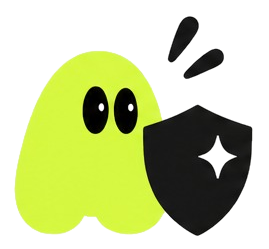
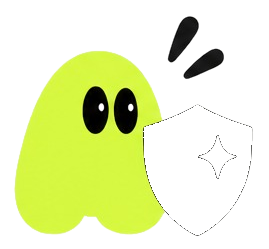
Recolor the shield and wall props to white for real contrast
The previous fix (a lime glow behind the image) wasn't enough - the
shield and wall were still hard to read. This recolors the actual
artwork instead: found the shield/wall as the one large (~9500px)
black connected component in each image (an order of magnitude
bigger than the eyes/droplets, which stayed black) and recolored
just that shape to white. Removed the now-unnecessary glow CSS.

Changed region(s): [[0.5353, 0.4217, 0.9517, 0.9558]]

diff --git a/css/styles.css b/css/styles.css
@@ -320,13 +320,7 @@ body {
 
 #waarom h2 { text-align: center; font-size: 2rem; margin: 0; }
 
-.waarom-mascot {
-  width: 76px;
-  height: auto;
-  padding: 10px;
-  border-radius: 50%;
-  background: radial-gradient(circle, rgba(204, 255, 2, 0.3) 0%, rgba(204, 255, 2, 0) 72%);
-}
+.waarom-mascot { width: 76px; height: auto; }
 
 @media (max-width: 480px) {
   .waarom-header { flex-direction: column; gap: 8px; }

diff --git a/CLAUDE.md b/CLAUDE.md
@@ -41,6 +41,8 @@ Stays working as long as: the repo stays public, the Combell domain registration
 ## Mascot
 `assets/mascotte-*.png` are cropped/cutout from a 4x3 sprite sheet the client supplied, background made transparent. Currently used: `mascotte-hogedruk` (hero), `mascotte-schild` (waarom section), `mascotte-piepen` (footer, decorative/`aria-hidden`).
 
+`mascotte-schild` and `mascotte-piepen` are used on dark sections, but their prop (the shield / the wall) was originally drawn solid black — invisible against a dark background. Fixed by recoloring just that shape to white (found via connected-component analysis: it's the one ~9500px blob, an order of magnitude bigger than the ~400-900px blobs that are the eyes/droplets, which stayed black). If more poses from the sprite sheet get used later on a dark section, check for the same issue.
+
 ## Conventions
 - All visible copy is Dutch
 - No JS framework/build tooling — edits to `js/main.js`/`css/styles.css` take effect directly on page load
